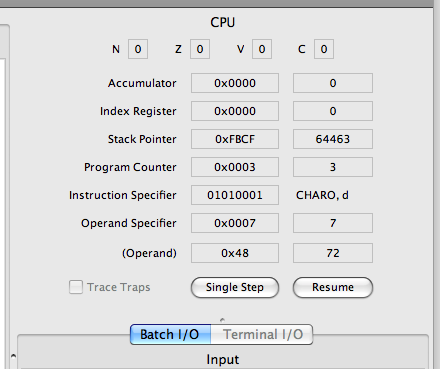
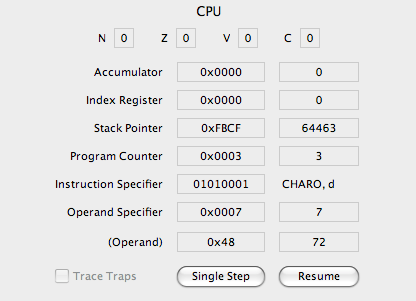
Removed our font from the font database, as we're no longer using it.
Added more screenshots for the help system, cropped a few more. No
Photoshop on this computer, and I don't think I'm going to work up the
courage to use Gimp tonight, so I'll finish polishing off the
screenshots tomorrow on the JSW desktop.

git-svn-id: http://pep8-1.googlecode.com/svn/trunk@294 0efa5a84-20a4-11de-9909-f37ff7dbbc12

diff --git a/help/interrupthandlers.html b/help/interrupthandlers.html
@@ -41,36 +41,24 @@ Select the menu option System->Redefine Mnemonics to change the mnemonics of one
 The dialog box requires you to enter a mnemonic and its allowed addressing modes if it is nonunary.
 For example, change the mnemonic for the unary instruction <code>NOP0</code> to <code>ECHO</code>.
 <p>
-<i>Insert screen shot here of Redefine Mnemonics with NOP0 changed to ECHO.</i>
+<img src="qrc:/help/images/redefinemnemonics.png" alt="redefinemnemonics" hspace=10 vspace=10>
 <p>
 <h4>Step 2.</h4>
 In this Help system in the pane on the left, select Pep/8 Operating System, and then click the Copy to Source button.
 The default operating system will be copied to the Source Code pane.
 <p>
-<i>Insert screen shots here of Pep/8 OS selected and then copied to Source Code pane.</i>
+<img src="qrc:/help/images/pep8oshelpsystem.png" alt="pep8oshelpsystem" hspace=10 vspace=10>
 <p>
 <h4>Step 3.</h4>
 Modify the trap handler part of the operating system to implement your new instruction.
 As an example, here is the original NOP0 trap handler.
 <p>
-<i>Insert screen shot here of this fragment from Pep/8 OS.</i>
+<img src="qrc:/help/images/nop0.png" alt="nop0" hspace=10 vspace=10>
 <p>
-<pre>
-;******* Opcode 0x24
-;The NOP0 instruction.
-opcode24:RET0
-</pre>
 And here is how you would modify it to implement the new <code>ECHO</code> instruction in place of <code>NOP0</code>.
 <p>
-<i>Insert screen shot here of this fragment from modified Pep/8 OS.</i>
+<img src="qrc:/help/images/echo.png" alt="echo" hspace=10 vspace=10>
 <p>
-<pre>
-;******* Opcode 0x24
-;The ECHO instruction.
-opcode24:CHARI byteBuff,d
-         CHARO byteBuff,d
-         RET0
-</pre>
 CAUTION: You cannot use any trap instructions in your trap handler.
 <p>
 <h4>Step 4.</h4>
@@ -85,19 +73,13 @@ Write an assembly language program to test your new instruction with the new mne
 The assembler should recognize the new mnemonic and generate the appropriate object code.
 For example, your test program might be the following.
 <p>
-<i>Insert screen shot here of the following code in the Source Code pane.</i>
-<p>
-<pre>
-ECHO
-STOP
-.END
-</pre>
+<img src="qrc:/help/images/echoprogram.png" alt="echoprogram" hspace=10 vspace=10>
 <p>
 <h4>Step 6.</h4>
 Load and execute your program assembled in step 5.
 In this example, whatever character is placed in the Input pane should be echoed in the output pane.
 <p>
-<i>Insert screen shot here of the Batch I/O panes with a single character, P, in the input and output panes.</i>
+<img src="qrc:/help/images/pecho.png" alt="pecho" hspace=10 vspace=10>
 
 <h3><a name="BURN">The .BURN pseudo-op</a></h3>
 
@@ -115,11 +97,11 @@ Simply change the burn directive in the operating system to a smaller value.
 For example, you can change the burn directive to <code>.BURN 0x7FFF</code>, assemble and install the new OS,
 and the system will install only 32KB of memory instead of 64KB.
 <p>
- <i>Screen shot of the modified .BURN constant.</i>
+<img src="qrc:/help/images/modifieddotburn.png" alt="modifieddotburn" hspace=10 vspace=10>
 <p>
 The trap handlers all run correctly, which you can trace in the Memory Dump pane.
 <p>
- <i>Screen shot of the Memory Dump pane with relocated OS.</i>
+<img src="qrc:/help/images/relocatedos.png" alt="relocatedos" hspace=10 vspace=10>
 <p>
 </body>
 </html>

diff --git a/help/debuggingprograms.html b/help/debuggingprograms.html
@@ -132,7 +132,7 @@ to be executed.
 The following screen shot shows the Trace pane after five clicks of the Single Step button.
 The <code>LDA</code> instruction has just executed, and the <code>ADDA</code> instruction will execute next.
 <p>
-<img src="qrc:/help/images/fig0515breakpoint.png" alt="fig0515breakpoint" hspace=10 vspace=10>
+<img src="qrc:/help/images/fig0515listingadda.png" alt="fig0515listingadda" hspace=10 vspace=10>
 <img src="qrc:/help/images/fig0515cpu.png" alt="fig0515cpu" hspace=10 vspace=10>
 
 <p>
@@ -159,12 +159,16 @@ The <code>LDA</code> instruction has just executed, and the <code>ADDA</code> in
 <p>
 As you single step through your program, if you execute a trap instruction the Trace pane will show the individual instructions
 in the trap handler of the operating system.
-The first screen shot below shows the <code>DECI</code> instruction about to be executed.
-The second screen shot shows the effect of clicking the Single Step button.
-The Trace pane switches to the trap handler in the operating system.
- <p>
+<p>
+The <code>DECI</code> instruction about to be executed:
+<p>
 <img src="qrc:/help/images/fig0515deci.png" alt="fig0515deci" hspace=10 vspace=10>
+<p>
+The effect of clicking the Single Step button:
+<p>
 <img src="qrc:/help/images/fig0515trap.png" alt="fig0515trap" hspace=10 vspace=10>
+<p>
+The Trace pane switches to the trap handler in the operating system.
 <p>
 When you are tracing an operating system trap, you can set breakpoints and click Single Step or Resume as you would
 with the source program.

diff --git a/mainwindow.cpp b/mainwindow.cpp
@@ -21,8 +21,6 @@ MainWindow::MainWindow(QWidget *parent)
 {
     ui->setupUi(this);
 
-    QFontDatabase::addApplicationFont(":/CourDKn.ttf");
-
     // Left pane setup
     sourceCodePane = new SourceCodePane(ui->codeSplitter);
     delete ui->SourceCodeWidgetPane;
